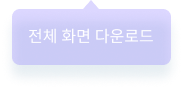
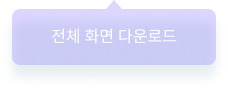
yj-web

diff --git a/6_web/final/main/templates/4_output.html b/6_web/final/main/templates/4_output.html
@@ -88,32 +88,41 @@
             </div>
             <div class="col"></div>
         </div>
-        <div class="row">
-            <div class="col"></div>
-            <div class="col-12 text-center">
-                <!-- <img class="result_option" src="/static/img/4_like_btn.png" alt="result_option">
-                <img class="result_option" src="/static/img/4_capture_download_btn.png" alt="result_option">
-                <img class="result_option" src="/static/img/4_image_download_btn.png" alt="result_option"> -->
-                <input type="button" class="result_option like-btn img-btn output-btn" onclick="alert('좋아요')">
 
-                <div class="image-container"> <!--다운로드 호버-->
-                    <input type="button" class="result_option img-download-btn img-btn output-btn" onclick="downloadImage()">
-                    <div class="hover-image">
-                    <!-- 호버 시에 나타날 이미지 -->
-                    <img src="/static/img/4_img_download_btn_hover.png" alt="download_hover">
+        <div class="container">
+            <div id="3_btns" class="row bottom_btns">
+                <div class="col-12 col-md-4"> <!-- 좋아요 버튼 -->
+                    <div class="btn">
+                        <input id="likeBtn" type="button" class="result_option like_btn img-btn output-btn" onclick="like_btn">
+                        <div id="likeHover" class="hover-image">
+                            <!-- 호버 시에 나타날 이미지 -->
+                            <img class="hover-like" src="/static/img/4_like_btn_hover.png" alt="like_description">
+                        </div>
                     </div>
                 </div>
-
-                <div class="image-container"> <!--캡쳐 호버-->
-                    <input type="button" class="result_option capture-btn img-btn output-btn" onclick="captureAndDownload()">
-                    <div class="hover-image">
-                    <!-- 호버 시에 나타날 이미지 -->
-                    <img src="/static/img/4_capture_download_btn_hover.png" alt="capture_hover">
+        
+                <div class="col-12 col-md-4"> <!-- 다운로드 버튼 -->
+                    <div class="btn">
+                        <input id="dwBtn" type="button" class="result_option download_btn img-btn output-btn" onclick="download_btn">
+                        <div id="dwHover" class="hover-image">
+                            <!-- 호버 시에 나타날 이미지 -->
+                            <img class="hover-dw" src="/static/img/4_img_download_btn_hover.png" alt="download_description">
+                        </div>
+                    </div>
+                </div>
+        
+                <div class="col-12 col-md-4"> <!-- 캡쳐 버튼 -->
+                    <div class="btn">
+                        <input id="capBtn" type="button" class="result_option capture_btn img-btn output-btn" onclick="capture_btn">
+                        <div id="capHover" class="hover-image">
+                            <!-- 호버 시에 나타날 이미지 -->
+                            <img class="hover-cap" src="/static/img/4_capture_download_btn_hover.png" alt="capture_description">
+                        </div>
                     </div>
                 </div>
             </div>
-            <div class="col"></div>
         </div>
+
     </div>
 
      <!--JS연결-->

diff --git a/6_web/final/main/static/css/4_output.css b/6_web/final/main/static/css/4_output.css
@@ -23,6 +23,7 @@
     border-radius: 122px;
     border: 10px solid  #f7e6e6a3;
     padding: 145px;
+    padding-bottom: 213px;
     border-image-slice: 1;
     margin-top: -109px;
     /* border-image-source: linear-gradient(to right, #d13f8f, #9747ff, #6d44b7, #ce4da4); */
@@ -85,14 +86,74 @@ input.output-btn{
     position: relative;
 }
 
-input.like-btn {
+
+/* 기본 이미지 컨테이너 스타일 */
+.bottom_btns {
+    position: relative;
+    /* overflow: hidden; 호버 이미지가 넘치지 않도록 설정 */
+}
+
+/* 호버 이미지 스타일 (숨겨진 상태로 초기화) */
+/* .hover-image {
+    width: 255px;
+    height: 140px;
+    position: absolute;
+    top: 35px;
+    left: -130px;
+    opacity: 0;
+    transition: opacity 0.3s ease-in-out;
+} */
+
+input.like_btn {
     background: url(/static/img/4_like_btn.png) no-repeat;
   }
 
-input.img-download-btn {
+input.download_btn {
     background: url(/static/img/4_image_download_btn.png) no-repeat;
 }
 
-input.capture-btn {
+input.capture_btn {
     background: url(/static/img/4_capture_download_btn.png) no-repeat;
+}
+
+#likeHover{
+    width: 255px;
+    height: 140px;
+    position: absolute;
+    top: 35px;
+    left: -130px;
+    opacity: 0;
+}
+
+#dwHover{
+    width: 255px;
+    height: 140px;
+    position: absolute;
+    top: 35px;
+    left: -130px;
+    opacity: 0;
+}
+
+#capHover{
+    width: 255px;
+    height: 140px;
+    position: absolute;
+    top: 35px;
+    left: -130px;
+    opacity: 0;
+}
+
+.hover-like{
+    margin-top: 117px;
+    margin-left: 139px;
+}
+
+.hover-dw{
+    margin-top: 117px;
+    margin-left: 477px;;
+}
+
+.hover-cap{
+    margin-top: 117px;
+    margin-left: 817px;
 }

diff --git a/6_web/final/main/static/css/2_input.css b/6_web/final/main/static/css/2_input.css
@@ -177,11 +177,6 @@ input[type=range]::-webkit-slider-thumb {
     /* overflow: hidden; 호버 이미지가 넘치지 않도록 설정 */
 }
 
-/* 메인 이미지 스타일 */
-#main-image {
-    object-fit: cover; /* 이미지가 컨테이너에 맞게 조절되도록 설정 */
-}
-
 /* 호버 이미지 스타일 (숨겨진 상태로 초기화) */
 .hover-image {
     width: 255px;
@@ -191,11 +186,6 @@ input[type=range]::-webkit-slider-thumb {
     left: -130px;
     opacity: 0;
     transition: opacity 0.3s ease-in-out;
-}
-
-/* 첫 번째 이미지 호버 효과 */
-.slider-container .image-container:hover .hover-image {
-    opacity: 1;
 }
 
 input.generate-btn {
@@ -215,13 +205,8 @@ input.generate-btn {
 }
 
 .custom-checkbox details {
-    display: flex 1;
+    display: flex;
     align-items: center;
-    flex-grow: 1;
-    white-space: nowrap;
-    overflow: hidden;
-    text-overflow: ellipsis;
-    margin-bottom: 20px;
 }
 
 .custom-checkbox {
@@ -230,9 +215,8 @@ input.generate-btn {
 }
 
 .custom-checkbox input[type="checkbox"] {
+    margin-right: 10px; /* 체크박스와 라벨 사이의 간격 설정 */
     transform: scale(1.5);
-    margin-left: -25px;
-    margin-top: 0; /* 기존의 margin-top 제거 */
 }
 
 summary::marker {

diff --git a/6_web/final/main/static/js/4_output.js b/6_web/final/main/static/js/4_output.js
@@ -43,3 +43,36 @@ function captureAndDownload() {
         document.body.removeChild(a);
     });
 }
+
+const imgbtn = document.querySelector('#likeBtn');
+const imghover = document.querySelector('#likeHover');
+
+imgbtn.addEventListener('mouseenter', () => {
+    imghover.style.opacity = '1'; // mousehover시 이미지가 나타남
+});
+
+imgbtn.addEventListener('mouseleave', () => {
+    imghover.style.opacity = '0'; // 호버가 끝나면 이미지가 숨겨짐
+});
+
+const dwBtn = document.querySelector('#dwBtn');
+const dwHover = document.querySelector('#dwHover');
+
+dwBtn.addEventListener('mouseenter', () => {
+    dwHover.style.opacity = '1'; // mousehover시 이미지가 나타남
+});
+
+dwBtn.addEventListener('mouseleave', () => {
+    dwHover.style.opacity = '0'; // 호버가 끝나면 이미지가 숨겨짐
+});
+
+const capBtn = document.querySelector('#capBtn');
+const capHover = document.querySelector('#capHover');
+
+capBtn.addEventListener('mouseenter', () => {
+    capHover.style.opacity = '1'; // mousehover시 이미지가 나타남
+});
+
+capBtn.addEventListener('mouseleave', () => {
+    capHover.style.opacity = '0'; // 호버가 끝나면 이미지가 숨겨짐
+});
